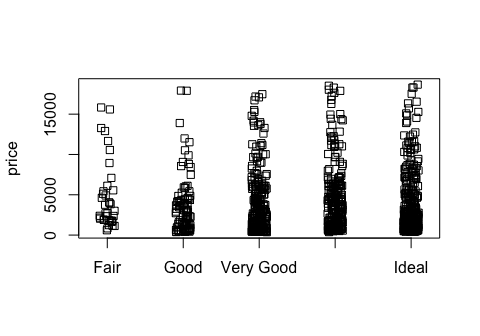
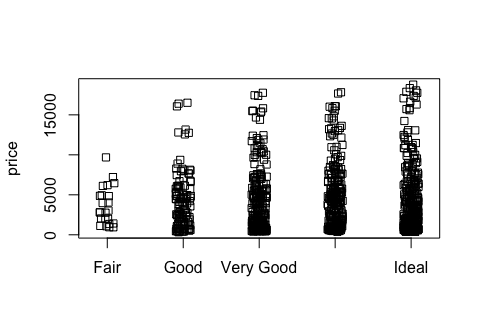
update chp 7-8

diff --git a/r4ds_chapters7-8_walkthrough.md b/r4ds_chapters7-8_walkthrough.md
@@ -17,7 +17,7 @@ Erick Lu
     -   [7.6 Patterns and models](#patterns-and-models)
 -   [Chapter 8 - Workflow: Projects](#chapter-8---workflow-projects)
 
-This my walkthrough for the book: *R for Data Science* by Hadley Wickham and Garrett Grolemund. It contains my answers to their exercises, highlights of some of the info I found useful / insightful, and some of my own notes and data explorations. Here I will go through chapters 7-8.
+This my walkthrough for chapters 7-8 of the book: *R for Data Science* by Hadley Wickham and Garrett Grolemund. It contains my answers to their exercises, information that I found useful / insightful, and some of my own notes and data explorations.
 
 Chapter 7 Exploratory Data Analysis
 ===================================
@@ -463,12 +463,12 @@ head(x)
 ```
 
     ##          x
-    ## 1 2.581630
-    ## 2 5.317133
-    ## 3 1.271438
-    ## 4 6.112641
-    ## 5 3.899790
-    ## 6 1.056021
+    ## 1 3.975666
+    ## 2 5.072309
+    ## 3 7.997199
+    ## 4 7.288635
+    ## 5 8.109720
+    ## 6 5.675823
 
 ``` r
 ggplot(x, aes(x))+
@@ -486,12 +486,12 @@ head(add_na)
 ```
 
     ##          x
-    ## 1 2.581630
+    ## 1 3.975666
     ## 2       NA
-    ## 3 1.271438
+    ## 3       NA
     ## 4       NA
-    ## 5 3.899790
-    ## 6 1.056021
+    ## 5 8.109720
+    ## 6       NA
 
 ``` r
 ggplot(add_na, aes(x))+
@@ -500,7 +500,7 @@ ggplot(add_na, aes(x))+
 
     ## `stat_bin()` using `bins = 30`. Pick better value with `binwidth`.
 
-    ## Warning: Removed 28 rows containing non-finite values (stat_bin).
+    ## Warning: Removed 37 rows containing non-finite values (stat_bin).
 
 ![](r4ds_chapters7-8_walkthrough_files/figure-markdown_github/introduce_NA_hist_bin-2.png)
 
@@ -791,18 +791,18 @@ The plots generated by geom\_jitter() are very similar to the stripchart() from 
 ```
 
     ## # A tibble: 1,000 x 10
-    ##    carat cut       color clarity depth table price     x     y     z
-    ##    <dbl> <ord>     <ord> <ord>   <dbl> <dbl> <int> <dbl> <dbl> <dbl>
-    ##  1 1.72  Premium   J     SI1      62.0   56.  6857  7.76  7.70  4.79
-    ##  2 0.310 Ideal     E     VS2      61.8   54.   680  4.36  4.41  2.71
-    ##  3 1.51  Premium   G     VS2      62.5   59. 12756  7.28  7.34  4.57
-    ##  4 0.330 Ideal     H     VVS1     62.5   56.   901  4.44  4.42  2.77
-    ##  5 1.31  Premium   G     VS2      61.3   58.  9085  7.05  7.01  4.31
-    ##  6 1.21  Premium   E     SI2      61.9   60.  6071  6.78  6.73  4.18
-    ##  7 0.810 Premium   J     VS2      60.6   60.  2129  6.04  6.00  3.65
-    ##  8 0.900 Premium   F     SI2      62.6   62.  3210  6.06  6.01  3.78
-    ##  9 0.700 Premium   G     VVS2     59.6   61.  2737  5.86  5.78  3.47
-    ## 10 1.29  Very Good I     VS1      61.1   58.  5562  6.98  7.03  4.28
+    ##    carat cut     color clarity depth table price     x     y     z
+    ##    <dbl> <ord>   <ord> <ord>   <dbl> <dbl> <int> <dbl> <dbl> <dbl>
+    ##  1 1.00  Premium G     VS2      60.0  59.0  5967  6.52  6.47  3.90
+    ##  2 0.240 Ideal   F     VVS2     60.7  56.0   552  3.98  4.03  2.43
+    ##  3 1.21  Premium I     SI1      61.0  56.0  4404  6.91  6.87  4.20
+    ##  4 1.51  Premium G     SI1      62.3  59.0  7577  7.29  7.21  4.52
+    ##  5 1.02  Premium F     SI2      62.5  60.0  4459  6.36  6.43  4.00
+    ##  6 1.03  Ideal   D     SI2      61.8  54.0  5013  6.46  6.52  4.01
+    ##  7 2.36  Ideal   I     SI2      60.8  54.0 11238  8.68  8.57  5.24
+    ##  8 1.13  Premium H     SI1      61.2  59.0  4689  6.68  6.65  4.08
+    ##  9 1.16  Good    H     SI1      64.2  58.6  5314  6.61  6.66  4.26
+    ## 10 0.900 Good    F     VS2      60.0  58.0  4655  6.21  6.26  3.74
     ## # ... with 990 more rows
 
 ``` r
